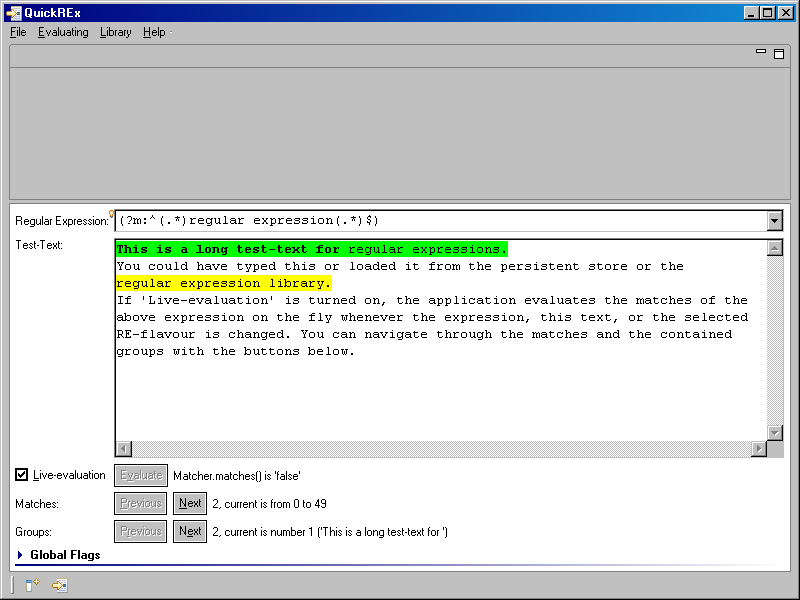
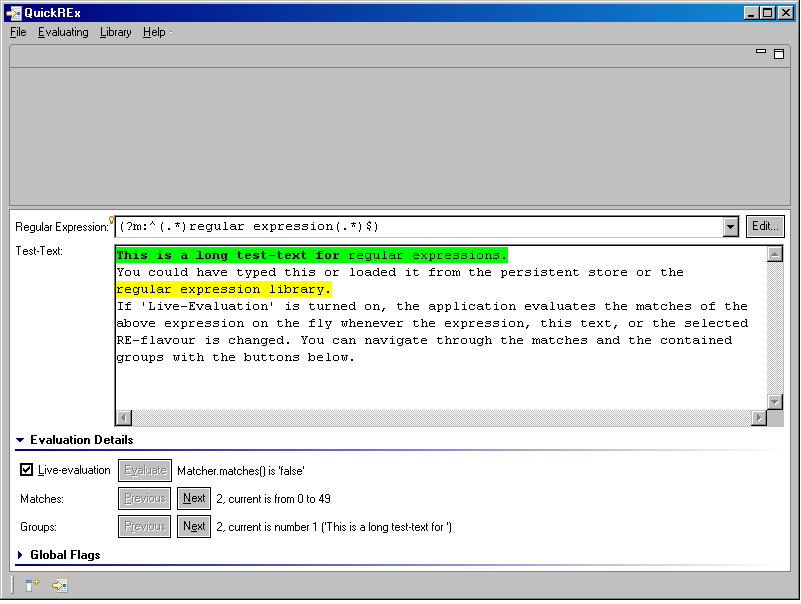
Version 1.5.0 - based on QR 3.5.0

Changed region(s): [[0.0, 0.0, 1.0, 1.0], [0.0, 0.03, 0.2188, 0.06]]

diff --git a/Application/html/toc.html b/Application/html/toc.html
@@ -42,6 +42,9 @@ QuickREx lets you enter test-texts and try regular expressions. The expressions 
 evaluated against the test-text on the fly, matches are highlighted and you can navigate between the matches.
 You can also navigate through groups within each match (if groups are defined in your regular expression).</p>
 
+<p>Regular Expressions are edited either within the view or within a composition-dialog which offers the most
+useful building-blocks grouped in categories and accompanied by short explanations.</p>
+
 <p>QuickREx also offers TAB-completion for regular expressions. All TAB-completion suggestions as well as
 the corresponding help-text popups are customizable. They are defined in .xml-files distributed with the
 plug-in. These files can be changed to add additional hints, remove rarely used hints or change the descriptions.</p>
@@ -106,7 +109,7 @@ applications, I decided to also offer QuickREx as a stand-alone application.</p>
 
 <p>Code-wise, the application is only a thin wrapper around the plug-in, slightly changing the layout
 and removing things which are not directly QuickREx-related. Under the hood, the QuickREx-plugin is
-working, currently (Version 1.0.0 of the application) in Version 3.2.0. Also on this help-page you will
+working, currently (Version 1.5.0 of the application) in Version 3.5.0. Also on this help-page you will
 find the plug-in-documentation which holds some more details for those that are interested.</p>
 
 <h2>What are the license terms?</h2>
@@ -115,7 +118,7 @@ find the plug-in-documentation which holds some more details for those that are 
 online at <A href="http://www.eclipse.org/legal/epl-v10.html">http://www.eclipse.org/legal/epl-v10.html</A>.</p>
 
 <p>The license is an Open Source license. The source can be found 
-<A href="http://www.bastian-bergerhoff.com/eclipse/features/download/QuickREx/QuickRExApplicationsrc_1_0_0.zip">here</A>
+<A href="http://www.bastian-bergerhoff.com/eclipse/features/download/QuickREx/QuickRExApplicationsrc_1_5_0.zip">here</A>
 as a zip-file for download.</p>
 
 <p>I hope the application serves you well. In case you find any problems with using it, have ideas for additional useful features

diff --git a/Application/html/quickRExView.html b/Application/html/quickRExView.html
@@ -31,6 +31,7 @@
       <li><a href="#selectingImpl">Selecting the Reg-Exp implementation</a></li>
       <li><a href="#settingFlags">Setting global compiler-flags</a></li>
       <li><a href="#tabCompletion">Using TAB-completion</a></li>
+      <li><a href="#reEditDialog">Using the Reg-Exp-Edit dialog</a></li>
       <li><a href="#grepping">Extracting all matches from text</a></li>
     </ul>
 
@@ -180,6 +181,28 @@
       changes.</li>
     </ul>
 
+    <a name="#reEditDialog"><h3>Using the Reg-Exp-Edit dialog</h3></a>
+
+    <p>If you prefer a dialog with selection-lists and some bracket-highlighting
+    over the combo to edit the regular expression, click the 'Edit...'-button
+    to the right of the combo for the regular expression. The dialog displayed in the
+    following figure will open:</p>
+    
+    <img alt="The edit-dialog for regular expressions" src="images/reEditDialog.png"/></img>
+
+	<p>The dialog differs for the different flavours, since they offer different
+	options for multiplicities, wildcards, etc.</p> 
+	
+	<p>The text-field at the top of the dialog is used to type the regular expression. As
+	you change the expression, the plug-in-view updates and the expression is evaluated
+	against the current test-text (assuming you use live-evaluation). The text-field also
+	offers some bracket-highlighting.</p>
+	
+	<p>For expressions like wildcards etc, you will find the most commonly used options
+	in the drop-down-lists. Whenever a list-entry is selected, the field at the bottom
+	of the dialog displays a short explanation. If you want to use an expression, press
+	'Insert' next to the drop-down. The expression will be inserted at the current edit-position
+	of the regular expression.</p>
     <a name="grepping"><h3>Grep - extracting all matches from text</h3></a>
 
     <p>If you want to extract only the matches for a particular regular
